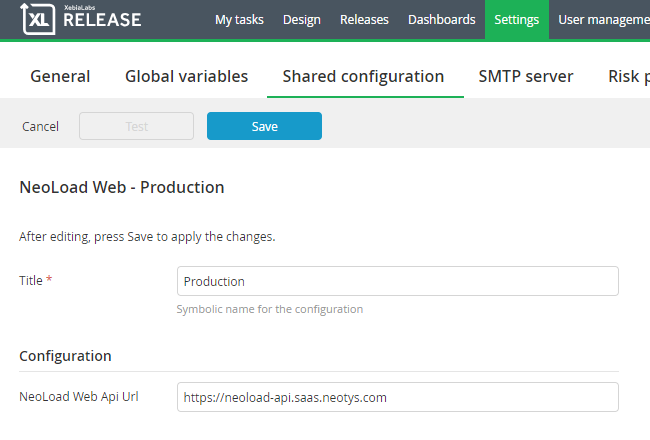
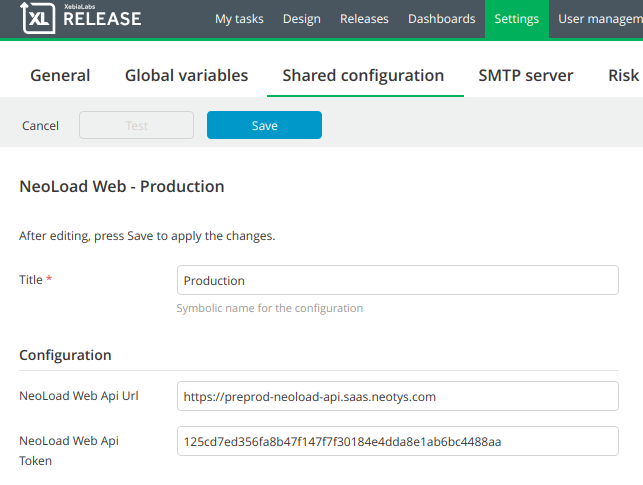
Update Documentation

diff --git a/README.md b/README.md
@@ -20,7 +20,7 @@ NeoLoad launched tests can be sent to <a href="https://www.neotys.com/neoload/fe
 ## Tasks
 The plugin has 3 different tasks.
 #### Launch Test
-Launch Test task allows the user to trigger a NeoLoad loading test on a remote machine (Windows, Linux, Mac OS). This task supports all the different ways to store Neoload projects:
+Launch Test task allows the user to trigger a NeoLoad loading test on a remote machine (Windows, Linux, Mac OS). This task supports all the different ways to store NeoLoad projects:
 <ul>
     <li>On a Neotys Team Server</li>
     <li>On a source control (SVN)</li>
@@ -35,7 +35,7 @@ The task is failing when the SLAs of the test are not met.
 The Launch Test task stores 3 report files: report.xml (required for the Trending Tile and Custom Trending Tile), report.pdf and junit.xml.
 
 #### Update Variable
-The update variable task allows the user to rewrite the runtime context of a test. The main idea behind this task is to update the project used by "Launch Test task" by updating the reference of the System under test.
+The update variable task allows the user to rewrite the runtime context of a test. The main idea behind this task is to update the project used by "Launch Test" task by updating the reference of the System under test.
 
 If the XL release user is deploying the application on a new environment, he will be able to pass the definition of the environment to NeoLoad through the Update Variable task.
 
@@ -81,6 +81,7 @@ Here is an example of Neotys Team Server configuration:
 This configuration specifies NeoLoad Web that allows streaming the launched test to NeoLoad Web SaaS or On-Premises.
 <ul>
     <li>NeoLoad Web Api Url</li>
+    <li>NeoLoad Web Api Token</li>
 </ul>
 Here is an example of NeoLoad Web configuration:
 <p align="center"><a target="_blank" href="screenshots/NeoLoadWebConfiguration.PNG"><img src="screenshots/NeoLoadWebConfiguration.PNG" alt="NeoLoad Web Configuration" style="max-width:100%;"></a></p>
